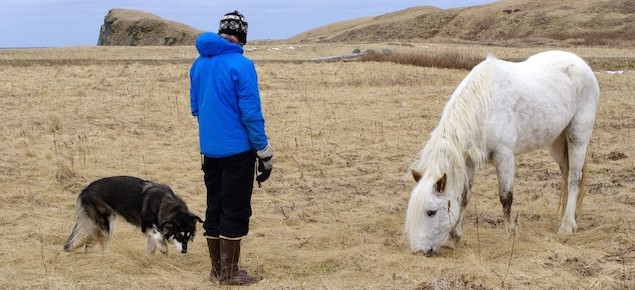
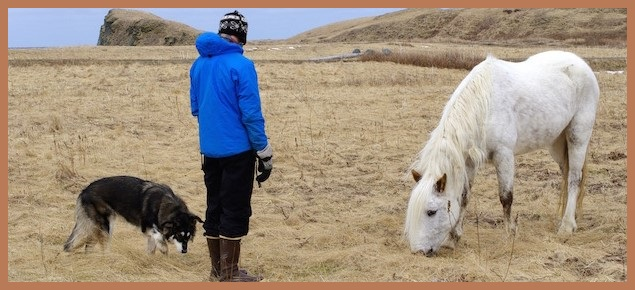
update

Changed region(s): [[0.0, 0.0, 1.0, 1.0]]

diff --git a/DirectUI/CControl.cpp b/DirectUI/CControl.cpp
@@ -24,6 +24,34 @@ void CControl::OnSize(float width, float height, float dpiscale)
 	this->m_DpiScale = dpiscale;
 }
 
+void CControl::Measure(CDirectUI_Size& data, ID2D1RenderTarget* pRT)
+{
+	if (this->m_Visibility == Visibilitys::Collapsed)
+	{
+		this->DesiredSize.width = this->DesiredSize.height = 0;
+	}
+	else
+	{
+		//this->DesiredSize.width = this->DesiredSize.height = 0;
+		//CDirectUI_Thinkness margin = this->m_Margin;
+		//width = width - margin.GetLeft() - margin.GetRight();
+		//height = height - margin.GetTop() - margin.GetBottom();
+		//float w = width;
+		//float h = height;
+
+		//if (this->m_Width > 0)
+		//{
+		//	w = this->m_Width;
+		//}
+		//if (this->m_Height > 0)
+		//{
+		//	h = this->m_Height;
+		//}
+		//this->DesiredSize = this->GetSize(w, h);
+		this->DesiredSize = this->GetSize(data.GetWidth(), data.GetHeight());
+	}
+}
+
 void CControl::Measure(float width, float height, ID2D1RenderTarget* pRT)
 {
 	if (this->m_Visibility == Visibilitys::Collapsed)
@@ -274,15 +302,16 @@ void CControl::OnRender(ID2D1RenderTarget* pRT, bool calculate_dpi)
 	//CTrace::WriteLine(L"%s render: %s  rc_dst %s", this->Name.c_str(), rc_src.ToString().c_str(), rc_src.GetWidth(), rc_src.GetHeight());
 	//float w1 = rc_dst.GetWidth();
 	//float w2 = rc_src.GetWidth();
-	pRT->DrawBitmap(bmp, rc_dst, 1, D2D1_BITMAP_INTERPOLATION_MODE_NEAREST_NEIGHBOR, rc_src);
-	//::OutputDebugString(this->Name.c_str());
-	//::OutputDebugStringA(" rc_dst:");
-	//::OutputDebugString(rc_dst.ToString().c_str());
-	//::OutputDebugStringA("\r\n");
-	//::OutputDebugString(this->Name.c_str());
-	//::OutputDebugStringA(" rc_src:");
-	//::OutputDebugString(rc_src.ToString().c_str());
-	//::OutputDebugStringA("\r\n");
+	pRT->DrawBitmap(bmp, rc_dst, this->m_Opacity, D2D1_BITMAP_INTERPOLATION_MODE_NEAREST_NEIGHBOR, rc_src);
+	::OutputDebugStringA("onrender: ");
+	::OutputDebugString(this->Name.c_str());
+	::OutputDebugStringA("\r\n");
+	::OutputDebugStringA("rc_dst:");
+	::OutputDebugString(rc_dst.ToString().c_str());
+	::OutputDebugStringA("\r\n");
+	::OutputDebugStringA("rc_src:");
+	::OutputDebugString(rc_src.ToString().c_str());
+	::OutputDebugStringA("\r\n");
 	bmp->Release();
 }
 

diff --git a/MFCApplication1/MFCApplication1Dlg.cpp b/MFCApplication1/MFCApplication1Dlg.cpp
@@ -165,14 +165,14 @@ BOOL CMFCApplication1Dlg::OnInitDialog()
 	//windows->SetChild(canvas);
 
 	shared_ptr<CBorder> border = ::make_shared<CBorder>();
-	border->SetBackground(::make_shared<CD2D_SolidColorBrush>(D2D1::ColorF(D2D1::ColorF::Purple, 1.0f)));
+	border->SetBackground(::make_shared<CD2D_SolidColorBrush>(D2D1::ColorF(D2D1::ColorF::Blue, 1.0f)));
 	border->Name = L"border";
 	//border->SetCornerRadius(CDirectUI_CornerRadius(20));
 	border->SetBorderThickness(CDirectUI_Thinkness(10));
 	border->SetBorderBrush(::make_shared<CD2D_SolidColorBrush>(CDirectUI_Color(255,0,0)));
-	border->SetBorderBrush(::make_shared<CD2D_SolidColorBrush>(D2D1::ColorF(D2D1::ColorF::Yellow, 1.0f)));
+	border->SetBorderBrush(::make_shared<CD2D_SolidColorBrush>(D2D1::ColorF(D2D1::ColorF::Green, 1.0f)));
 	//border->SetWidth(200);
-	border->SetHorizontalAlignment(HorizontalAlignments::Right);
+	border->SetHorizontalAlignment(HorizontalAlignments::Left);
 	border->SetMargin(CDirectUI_Thinkness(20));
 	//border->SetPadding(CDirectUI_Thinkness(40));
 	shared_ptr<CD2D_ImageSource> imgsource = ::make_shared<CD2D_ImageSource>();
@@ -181,7 +181,7 @@ BOOL CMFCApplication1Dlg::OnInitDialog()
 	image->SetSource(imgsource);
 	image->SetStretch(Stretchs::None);
 	//image->SetHieght(100);
-	//image->SetHorizontalAlignment(HorizontalAlignments::Right);
+	image->SetHorizontalAlignment(HorizontalAlignments::Right);
 	//image->SetVerticalAlignment(VerticalAlignments::Bottom);
 	image->Name = L"image";
 	//image->Margin = CDirectUI_Thinkness(10);
@@ -192,7 +192,8 @@ BOOL CMFCApplication1Dlg::OnInitDialog()
 	//textblock->SetHorizontalAlignment(HorizontalAlignments::Center);
 	//textblock->SetVerticalAlignment(VerticalAlignments::Center);
 	textblock->SetForeground(::make_shared <CD2D_SolidColorBrush>(D2D1::ColorF(D2D1::ColorF::Black)));
-	textblock->SetText(L"test");
+	//textblock->SetBackground(::make_shared <CD2D_SolidColorBrush>(D2D1::ColorF(D2D1::ColorF::Purple)));
+	textblock->SetText(L"ABCDEFGHIJKLMNOPQRSTUVWXYZ");
 	//border->SetChild(textblock);
 	windows->SetChild(border);
 

diff --git a/DirectUI/CBorder.cpp b/DirectUI/CBorder.cpp
@@ -204,18 +204,27 @@ void CBorder::Arrange(float x, float y, float width, float height)
 	//float w = width - this->m_BorderThickness.GetLeft() - this->m_BorderThickness.GetRight();
 	//float h = height - this->m_BorderThickness.GetTop() - this->m_BorderThickness.GetBottom();
 
-	CControl::Arrange(x, y, width, height);
+	CDirectUI_Rect rc(x, y, x + width, y + height);
+	rc = rc + this->m_Margin;
 	if (this->m_Child)
 	{
+		CControl::Arrange(x, y, width, height);
 		CDirectUI_Rect rc = this->m_ActualRect;
 		
-		rc = CDirectUI_Rect(0, 0, rc.GetWidth(), rc.GetHeight());
+		//rc = CDirectUI_Rect(0, 0, rc.GetWidth(), rc.GetHeight());
+		rc = CDirectUI_Rect(0, 0, this->DesiredSize.width, this->DesiredSize.height);
 		rc = rc + this->m_BorderThickness;
 		rc = rc + this->m_Padding;
 		
 		this->m_Child->Arrange(rc.GetX(), rc.GetY(), rc.GetWidth(), rc.GetHeight());
-	}
 
+
+		
+	}
+	else
+	{
+		CControl::Arrange(x, y, width, height);
+	}
 	//::CContentControl::Arrange(x, y, w, h);
 }
 
@@ -235,7 +244,7 @@ void CBorder::Measure(float width, float height, ID2D1RenderTarget* pRT)
 		}
 		else
 		{
-			this->DesiredSize.width = this->m_Child->DesiredSize.width;
+			this->DesiredSize.width = this->m_Child->DesiredSize.width+ this->m_BorderThickness.GetLeft() + this->m_BorderThickness.GetRight();
 		}
 		if (this->m_VerticalAlignment == VerticalAlignments::Stretch)
 		{
@@ -243,7 +252,7 @@ void CBorder::Measure(float width, float height, ID2D1RenderTarget* pRT)
 		}
 		else
 		{
-			this->DesiredSize.height = this->m_Child->DesiredSize.height;
+			this->DesiredSize.height = this->m_Child->DesiredSize.height+ this->m_BorderThickness.GetTop() + this->m_BorderThickness.GetBottom();
 		}
 		
 		//CControl::Measure(this->m_Child->DesiredSize.width + this->m_BorderThickness.GetLeft() + this->m_BorderThickness.GetRight(), this->m_Child->DesiredSize.height+ -this->m_BorderThickness.GetTop() + this->m_BorderThickness.GetBottom(), pRT);

diff --git a/DirectUI/CWindow.cpp b/DirectUI/CWindow.cpp
@@ -15,23 +15,6 @@ LRESULT CWindow::WinProc(HWND hWnd, UINT uMsg, WPARAM wParam, LPARAM lParam, UIN
 		ww->ReDraw();
 	}
 	break;
-	case WM_MOUSEHOVER:
-	{
-		int xPos = GET_X_LPARAM(lParam);
-		int yPos = GET_Y_LPARAM(lParam);
-		
-	}
-	break;
-	case WM_SETFOCUS:
-	{
-
-	}
-	break;
-	case WM_KILLFOCUS:
-	{
-
-	}
-	break;
 	case WM_MOUSEMOVE:
 	{
 		int xPos = GET_X_LPARAM(lParam);
@@ -169,6 +152,7 @@ LRESULT CWindow::WinProc(HWND hWnd, UINT uMsg, WPARAM wParam, LPARAM lParam, UIN
 		}
 	}
 	break;
+	
 	case WM_SIZE:
 	{
 		UINT width = LOWORD(lParam);
@@ -177,6 +161,7 @@ LRESULT CWindow::WinProc(HWND hWnd, UINT uMsg, WPARAM wParam, LPARAM lParam, UIN
 		//dpi = 96;
 		float dpiscale = (float)(dpi / 96.0);
 		ww->OnSize(width, height, dpiscale);
+		
 	}
 	break;
 	case WM_DROPFILES:
@@ -247,7 +232,8 @@ void CWindow::OnSize(float width, float height, float dpiscale)
 	this->pRT->Resize(D2D1::SizeU(width, height));
 	CContentControl::OnSize(width, height, dpiscale);
 	//dpiscale = 1.5;
-	this->Measure(width / dpiscale, height / dpiscale, this->pRT);
+	CDirectUI_Size sz(width / dpiscale, height / dpiscale);
+	this->Measure(sz, this->pRT);
 	this->Arrange(0, 0, width / dpiscale, height / dpiscale);
 
 }
@@ -257,14 +243,7 @@ void CWindow::OnRender(ID2D1RenderTarget* pRT, bool calculate_dpi)
 {	
 	this->pRT->BeginDraw();
 	this->pRT->Clear(D2D1::ColorF(D2D1::ColorF::Black, 1.0f));
-	//RECT rc = { 0 };
-	//::GetClientRect(this->m_hWnd, &rc);
-	//CDirectUI_Rect rc1(0,0,rc.right,rc.bottom);
-	//
-	//rc1 = rc1 / 1.5;
-	//rc1 = rc1 + CDirectUI_Thinkness(10);
-	//this->m_Background->Refresh(pRT);
-	//this->pRT->FillRectangle(rc1, *this->m_Background);
+	
 	CContentControl::OnRender(this->pRT, calculate_dpi);
 
 	this->pRT->EndDraw();

diff --git a/DirectUI/CTextBlock.cpp b/DirectUI/CTextBlock.cpp
@@ -75,6 +75,51 @@ void CTextBlock::OnRender(ID2D1RenderTarget* pRT, bool calculate_dpi)
 
 }
 
+void CTextBlock::Measure(CDirectUI_Size& data, ID2D1RenderTarget* pRT)
+{
+	this->DesiredSize.width = this->DesiredSize.height = 0;
+	//CDirectUI_Thinkness margin = this->m_Margin;
+	CDirectUI_Size sz1 = data + this->m_Margin;
+	//width = width - margin.GetLeft() - margin.GetRight();
+	//height = height - margin.GetTop() - margin.GetBottom();
+	float w = sz1.GetWidth();
+	float h = sz1.GetHeight();
+
+	if (this->m_Width > 0)
+	{
+		w = this->m_Width;
+	}
+	if (this->m_Height > 0)
+	{
+		h = this->m_Height;
+	}
+	D2D1_SIZE_F sz = this->Font->GetTextSize(this->m_Text.c_str(), w, h);
+	this->DesiredSize.width = sz.width;
+	if (this->m_Width > 0 && this->m_Width < sz.width)
+	{
+		this->DesiredSize.width = this->m_Width;
+	}
+	else if (sz.width < sz1.GetWidth())
+	{
+		if (this->m_HorizontalAlignment == HorizontalAlignments::Stretch)
+		{
+			this->DesiredSize.width = sz1.GetWidth();
+		}
+	}
+	this->DesiredSize.height = sz.height;
+	if (this->m_Height > 0 && this->m_Height < sz.height)
+	{
+		this->DesiredSize.height = this->m_Height;
+	}
+	else if (sz.height < sz1.GetHeight())
+	{
+		if (this->m_VerticalAlignment == VerticalAlignments::Stretch)
+		{
+			this->DesiredSize.height = sz1.GetHeight();
+		}
+	}
+}
+
 void CTextBlock::Measure(float width, float height, ID2D1RenderTarget* pRT)
 {
 	this->DesiredSize.width = this->DesiredSize.height = 0;

diff --git a/DirectUI/CContentControl.cpp b/DirectUI/CContentControl.cpp
@@ -37,14 +37,26 @@ void CContentControl::Arrange(float x, float y, float width, float height)
 	}
 }
 
-void CContentControl::Measure(float width, float height, ID2D1RenderTarget* pRT)
+//void CContentControl::Measure(float width, float height, ID2D1RenderTarget* pRT)
+//{
+//	CControl::Measure(width, height, pRT);
+//	if (this->m_Child)
+//	{
+//		float w = this->DesiredSize.width - this->m_Padding.GetLeft() - this->m_Padding.GetRight();
+//		float h = this->DesiredSize.height - this->m_Padding.GetTop() - this->m_Padding.GetBottom();
+//		this->m_Child->Measure(w, h, pRT);
+//	}
+//}
+
+void CContentControl::Measure(CDirectUI_Size& data, ID2D1RenderTarget* pRT)
 {
-	CControl::Measure(width, height, pRT);
+	CControl::Measure(data, pRT);
 	if (this->m_Child)
 	{
-		float w = this->DesiredSize.width - this->m_Padding.GetLeft() - this->m_Padding.GetRight();
-		float h = this->DesiredSize.height - this->m_Padding.GetTop() - this->m_Padding.GetBottom();
-		this->m_Child->Measure(w, h, pRT);
+		CDirectUI_Size sz = data + this->m_Padding;
+		//float w = this->DesiredSize.width - this->m_Padding.GetLeft() - this->m_Padding.GetRight();
+		//float h = this->DesiredSize.height - this->m_Padding.GetTop() - this->m_Padding.GetBottom();
+		this->m_Child->Measure(sz, pRT);
 	}
 }
 

diff --git a/DirectUI/CContentControl.h b/DirectUI/CContentControl.h
@@ -10,7 +10,8 @@ namespace DirectUI
 		public:
 			virtual void OnRender(ID2D1RenderTarget* pRT, bool calculate_dpi) override;
 			virtual void Arrange(float x, float y, float width, float height) override;
-			virtual void Measure(float width, float height, ID2D1RenderTarget* pRT) override;
+			void Measure(CDirectUI_Size& data, ID2D1RenderTarget* pRT) override;
+			//virtual void Measure(float width, float height, ID2D1RenderTarget* pRT) override;
 			void SetPadding(CDirectUI_Thinkness& data);
 			virtual void SetChild(shared_ptr<CControl> data);
 			bool HitTest(int x, int y, vector<shared_ptr<CControl>>& childs) override;

diff --git a/DirectUI/CControl.h b/DirectUI/CControl.h
@@ -124,6 +124,7 @@ namespace Control
 		void SetMargin(CDirectUI_Thinkness& data);
 		wstring Name = L"";
 		virtual void Measure(float width, float height, ID2D1RenderTarget* pRT);
+		virtual void Measure(CDirectUI_Size& data, ID2D1RenderTarget* pRT);
 		virtual void Arrange(float x, float y, float width, float height);
 		D2D_SIZE_F DesiredSize = { 0 };
 	
@@ -146,6 +147,7 @@ namespace Control
 	protected:
 		bool m_IsHover = false;
 		bool m_IsPressed = false;
+		float m_Opacity = 1.0;
 	private:
 		Trees m_Tree = Trees::Logic;
 	};

diff --git a/DirectUI/CDirectUI_Size.h b/DirectUI/CDirectUI_Size.h
@@ -1,5 +1,6 @@
 #pragma once
 #include <d2d1.h>
+#include "CDirectUI_Thinkness.h"
 
 namespace DirectUI
 {
@@ -17,6 +18,14 @@ namespace DirectUI
 			D2D1_SIZE_F sz;
 			sz.width = this->m_Width;
 			sz.height = this->m_Height;
+			return sz;
+		}
+
+		CDirectUI_Size operator+(CDirectUI_Thinkness& data) const throw()
+		{
+			CDirectUI_Size sz;
+			sz.m_Width= this->m_Width - data.GetLeft() - data.GetRight();
+			sz.m_Height = this->m_Height - data.GetTop() - data.GetBottom();
 			return sz;
 		}
 	protected:

diff --git a/DirectUI/CTextBlock.h b/DirectUI/CTextBlock.h
@@ -16,6 +16,7 @@ namespace DirectUI
 			void SetText(const wchar_t* data);
 			void OnRender(ID2D1RenderTarget* pRT, bool calculate_dpi) override;
 			void Measure(float width, float height, ID2D1RenderTarget* pRT) override;
+			void Measure(CDirectUI_Size& data, ID2D1RenderTarget* pRT) override;
 			void Arrange(float x, float y, float width, float height) override;
 			void SetForeground(shared_ptr<Direct2D::CD2D_Brush> data);
 			shared_ptr<Direct2D::CD2D_Font> Font = ::make_shared<Direct2D::CD2D_Font>();

diff --git a/DirectUI/CButton.cpp b/DirectUI/CButton.cpp
@@ -15,7 +15,7 @@ void CButton::Measure(float width, float height, ID2D1RenderTarget* pRT)
 {
 	float w = width - this->m_Margin.GetLeft() - this->m_Margin.GetRight();
 	float h = height - this->m_Margin.GetTop() - this->m_Margin.GetBottom();
-	::CContentControl::Measure(w, h, pRT);
+	//::CContentControl::Measure(w, h, pRT);
 }
 
 void CButton::Arrange(float x, float y, float width, float height)

diff --git a/DirectUI/CImage.h b/DirectUI/CImage.h
@@ -34,6 +34,7 @@ namespace DirectUI
 			void SetSource(shared_ptr<Direct2D::CD2D_ImageSource> data);
 			void SetStretch(Stretchs data);
 			void OnRender(ID2D1RenderTarget* pRT, bool calculate_dpi) override;
+
 			void Measure(float width, float height, ID2D1RenderTarget* pRT) override;
 			void Arrange(float x, float y, float width, float height) override;
 		protected:
